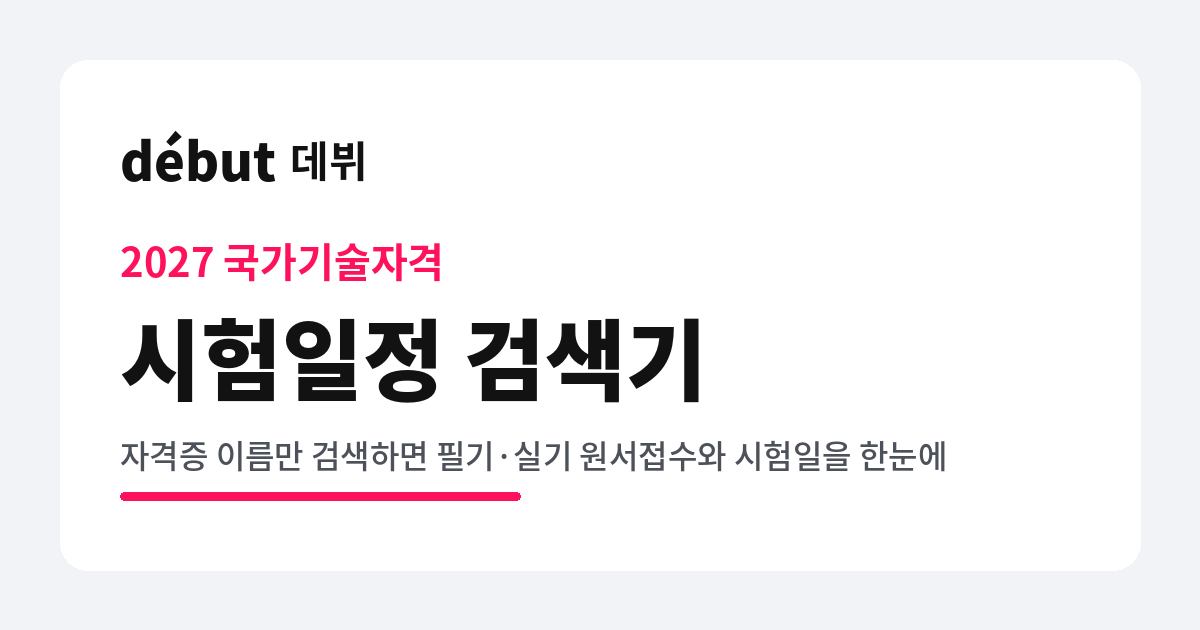
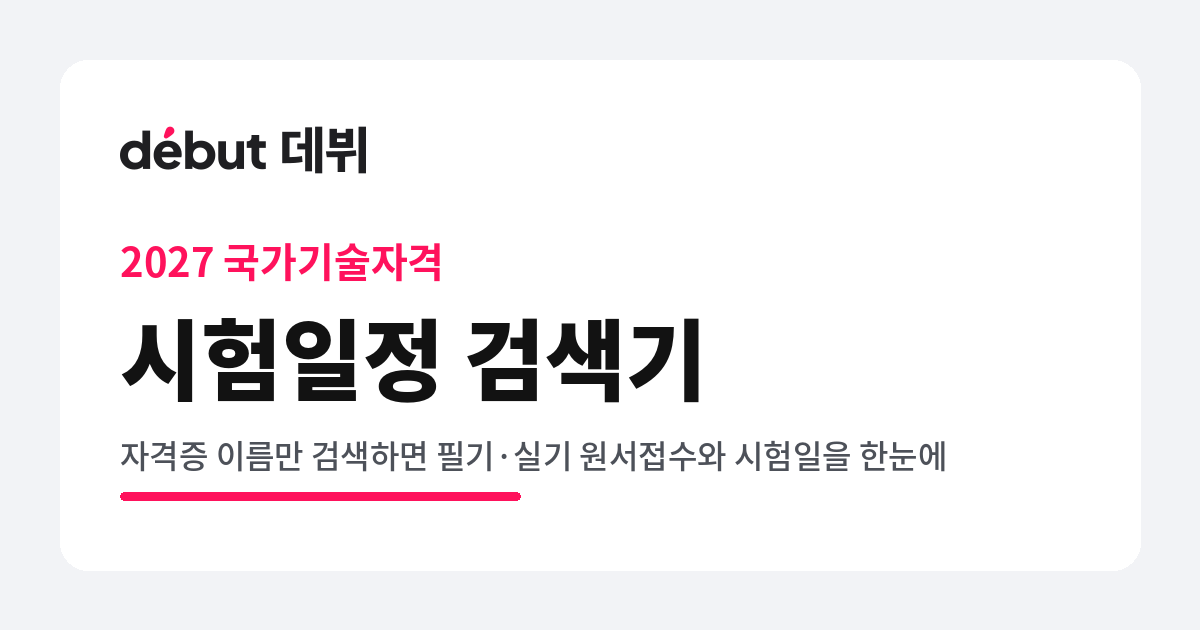
공식 데뷔 로고 적용, 로드맵 CTA URL 설정
- Figma 원본 Logo를 SVG로 내보내 헤더·OG 이미지에 적용 (담당자 승인)
- 데뷔 로드맵 CTA 링크 설정 및 E2E 검증 추가 (81/81 통과)

Claude-Session: https://claude.ai/code/session_01TKgeTkKhyT779EGMhqG1pP

Changed region(s): [[0.0925, 0.181, 0.3083, 0.3016]]

diff --git a/docs/css/style.css b/docs/css/style.css
@@ -29,7 +29,8 @@ a { color: var(--brand-strong); }
 /* 상단바 */
 .topbar { position: sticky; top: 0; z-index: 20; background: rgba(255,255,255,.96); border-bottom: 1px solid var(--grey-3); backdrop-filter: saturate(180%) blur(8px); }
 .topbar__inner { display: flex; align-items: center; justify-content: space-between; height: 60px; }
-.logo { display: inline-flex; align-items: baseline; gap: 6px; text-decoration: none; color: var(--grey-10); }
+.logo { display: inline-flex; align-items: center; padding: 4px 0; }
+.logo img { display: block; height: 28px; width: auto; }
 .logo__en { font-weight: 800; font-size: 24px; letter-spacing: -0.04em; }
 .logo__ko { font-weight: 700; font-size: 19px; color: var(--grey-10); }
 .link-btn { background: none; border: 0; padding: 10px 6px; font-size: 15px; font-weight: 600; color: var(--text-2); cursor: pointer; border-radius: 8px; }

diff --git a/docs/js/config.js b/docs/js/config.js
@@ -6,8 +6,8 @@ export const CONFIG = {
   // 기본 연도 (data/metadata.json 의 current_year 가 우선)
   defaultYear: 2027,
 
-  // 데뷔 로드맵 URL — 담당자 확인 전까지 비워 둔다(비어 있으면 CTA 버튼 미노출)
-  roadmapUrl: '',
+  // 데뷔 로드맵 URL (담당자 제공값, 2026-11-24). 비우면 CTA 영역 미노출
+  roadmapUrl: 'https://debut.ai.kr/?utm_source=naver_blog&utm_medium=referral&utm_campaign=blog&utm_content=post_18',
 
   // GA4 측정 ID (예: 'G-XXXXXXXXXX') — 비어 있으면 분석 스크립트를 로드하지 않는다
   ga4MeasurementId: '',

diff --git a/docs/index.html b/docs/index.html
@@ -28,8 +28,8 @@
   <a class="skip" href="#q">검색으로 바로가기</a>
   <header class="topbar">
     <div class="wrap topbar__inner">
-      <a class="logo" href="./" aria-label="데뷔 2027 시험일정 검색기 처음으로">
-        <span class="logo__en">début</span><span class="logo__ko">데뷔</span>
+      <a class="logo" href="./" title="2027 시험일정 검색기 처음으로">
+        <img src="assets/logo.svg" width="123" height="32" alt="데뷔">
       </a>
       <button type="button" class="link-btn" id="open-source">공식 자료 안내</button>
     </div>

diff --git a/scripts/make_assets.py b/scripts/make_assets.py
@@ -1,4 +1,4 @@
-"""임시 브랜드 에셋 생성 (공식 로고 승인 전 텍스트 로고 기반). 사용: python3 -I scripts/make_assets.py docs/assets"""
+"""브랜드 에셋 생성: 공식 로고(docs/assets/logo.svg, Figma 원본 export)로 OG 이미지·아이콘 생성. 사용: python3 -I scripts/make_assets.py docs/assets"""
 import sys, pathlib
 from PIL import Image, ImageDraw, ImageFont
 out = pathlib.Path(sys.argv[1]); out.mkdir(parents=True, exist_ok=True)
@@ -11,8 +11,9 @@ INK, PINK, GREY, BG = (18, 18, 18), (255, 18, 92), (77, 81, 89), (242, 243, 246)
 # OG 1200x630
 im = Image.new('RGB', (1200, 630), BG); d = ImageDraw.Draw(im)
 d.rounded_rectangle((60, 60, 1140, 570), 28, fill=(255, 255, 255))
-d.text((120, 120), 'début', font=font('Black', 52), fill=INK)
-d.text((290, 128), '데뷔', font=font('Bold', 42), fill=INK)
+import subprocess, io
+logo_png = subprocess.run(['rsvg-convert', '-h', '64', str(out / 'logo.svg')], capture_output=True, check=True).stdout
+logo = Image.open(io.BytesIO(logo_png)).convert('RGBA'); im.paste(logo, (120, 118), logo)
 d.text((120, 230), '2027 국가기술자격', font=font('Bold', 40), fill=PINK)
 d.text((120, 290), '시험일정 검색기', font=font('Black', 88), fill=INK)
 d.text((120, 430), '자격증 이름만 검색하면 필기·실기 원서접수와 시험일을 한눈에', font=font('Medium', 32), fill=GREY)
@@ -29,7 +30,7 @@ def icon(size):
     d.ellipse((cx - r, cy - r, cx + r, cy + r), fill=PINK)
     return im
 icon(64).save(out / 'favicon.png'); icon(180).convert('RGB').save(out / 'apple-touch-icon.png')
-(out / 'logo.svg').write_text('''<svg xmlns="http://www.w3.org/2000/svg" width="123" height="32" viewBox="0 0 123 32" role="img" aria-label="데뷔 DEBUT">
+if False: (out / 'logo.svg').write_text('''<svg xmlns="http://www.w3.org/2000/svg" width="123" height="32" viewBox="0 0 123 32" role="img" aria-label="데뷔 DEBUT">
 <text x="0" y="24" font-family="Pretendard, 'Apple SD Gothic Neo', sans-serif" font-size="24" font-weight="800" letter-spacing="-1" fill="#121212">début</text>
 <text x="68" y="24" font-family="Pretendard, 'Apple SD Gothic Neo', sans-serif" font-size="19" font-weight="700" fill="#121212">데뷔</text></svg>
 ''', encoding='utf-8')

diff --git a/README.md b/README.md
@@ -54,7 +54,7 @@ E2E QA는 Playwright가 필요합니다(`npm i`). `BASE=http://localhost:8765/ce
 
 | 키 | 설명 | 현재 |
 |---|---|---|
-| `roadmapUrl` | 데뷔 로드맵 CTA 링크. 비어 있으면 CTA 영역을 숨깁니다 | 미설정 (담당자 확인 필요) |
+| `roadmapUrl` | 데뷔 로드맵 CTA 링크. 비어 있으면 CTA 영역을 숨깁니다 | `https://debut.ai.kr/?utm_source=naver_blog&utm_medium=referral&utm_campaign=blog&utm_content=post_18` (담당자 제공) |
 | `ga4MeasurementId` | GA4 측정 ID(`G-…`). 비어 있으면 분석 스크립트를 로드하지 않습니다 | 미설정 |
 | `siteUrl` | 공유 링크와 canonical 기준 주소 | 배포 주소 |
 | `suggestions` | 추천 검색어 | |
@@ -94,4 +94,4 @@ https://jade-legate.github.io/certificate-schedule/?year=2027&utm_source=naver_b
 ## 라이선스와 브랜드
 
 - Pretendard: SIL Open Font License 1.1 (`docs/assets/fonts/pretendard.css` 머리말에 고지 포함)
-- 데뷔 로고와 브랜드 사용은 담당자 승인 대상입니다. 현재는 임시 텍스트 로고(`début 데뷔`)를 쓰고 있습니다.
+- 데뷔 로고: 담당자 승인(2026-11-24)을 받아 Figma 원본(`Logo` 컴포넌트)을 SVG로 내보내 `docs/assets/logo.svg`로 사용합니다. OG 이미지와 아이콘은 `scripts/make_assets.py`로 생성합니다.

diff --git a/tests/results/local-e2e.md b/tests/results/local-e2e.md
@@ -1,8 +1,8 @@
 # 로컬 E2E QA 결과
 
 - 대상: http://localhost:8765/certificate-schedule/ (GitHub Pages 하위 경로 재현)
-- 실행: 2026-11-24T02:59:15.692Z
-- 결과: 79/79 통과, 콘솔 오류 1건
+- 실행: 2026-11-24T05:06:32.685Z
+- 결과: 81/81 통과
 
 | 결과 | 항목 | 비고 |
 |---|---|---|
@@ -44,6 +44,8 @@
 | 통과 | 건축도장기능사: 정기+상시 병행, 필기 없음 |  |
 | 통과 | 종목별 별도 시험일: 산림종묘기사 제3회 필답형 11.6 |  |
 | 통과 | 구 종목명 별칭: 임업종묘 → 실제 종목(임업종묘기능사) 우선, 별칭(산림종묘기사) 포함 | 임업종묘기능사,산림종묘기사 |
+| 통과 | 로드맵 CTA 노출 + 설정 URL 연결(새 창) |  |
+| 통과 | 공식 로고 표시 |  |
 | 통과 | 검색 결과 없음 안내 |  |
 | 통과 | 검색어+등급 필터 동시 적용(전기, 기능사) | 17건 |
 | 통과 | 등급 필터 URL 복원(aria-checked) |  |
